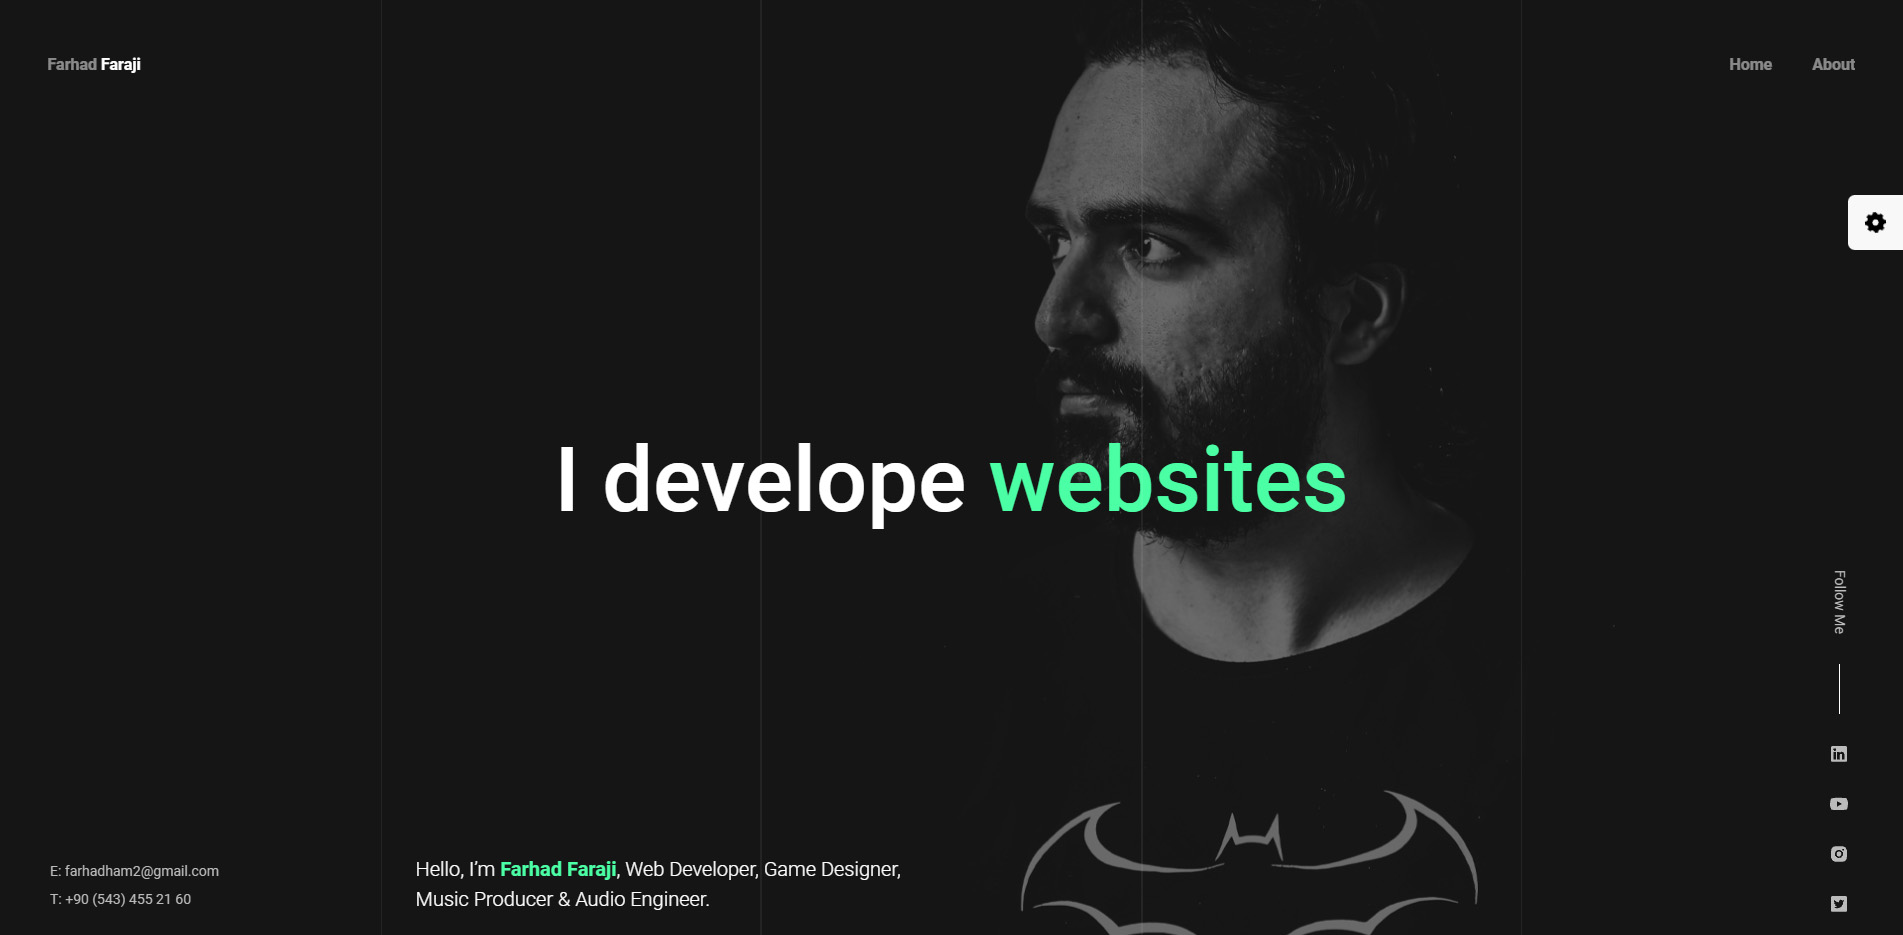
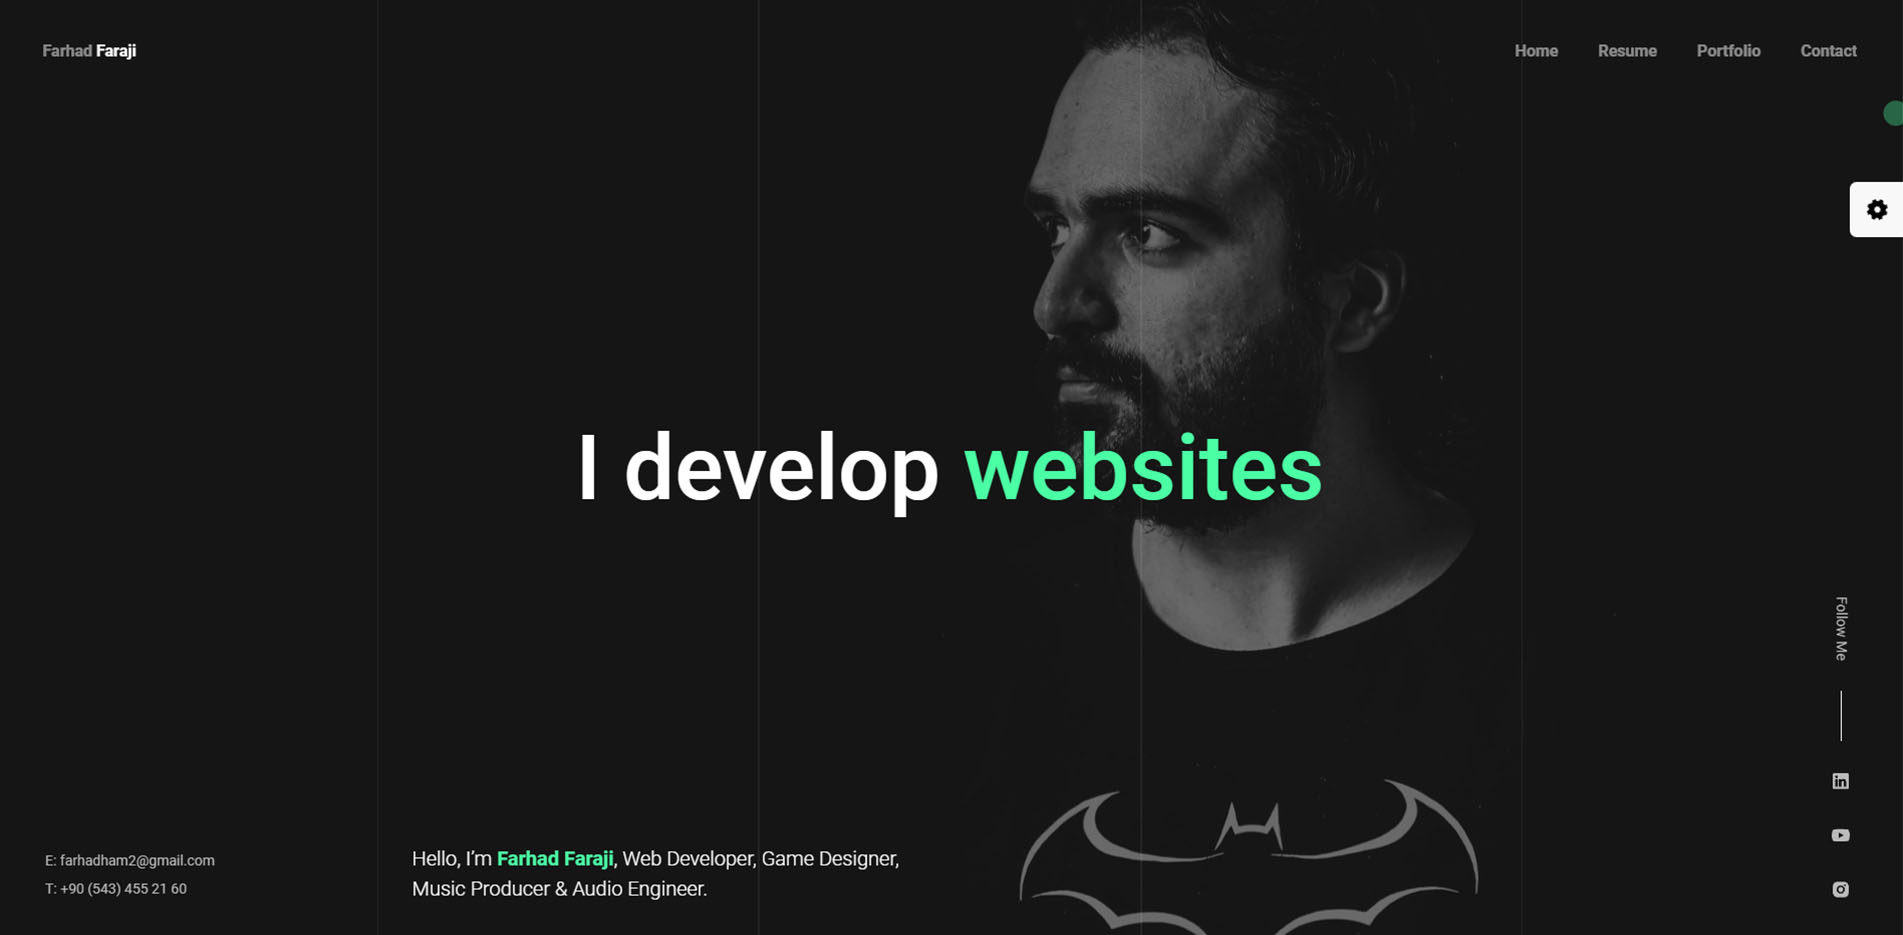
fixed some stuff

diff --git a/src/components/Header/Header.js b/src/components/Header/Header.js
@@ -87,7 +87,7 @@ const Header = ({ color, lines }) => {
                     duration: 1,
                   }}
                 >
-                  I produce <span style={{ color: color }}>music</span>
+                  I create <span style={{ color: color }}>music</span>
                 </motion.h2>
               )}
             </AnimatePresence>
@@ -105,27 +105,12 @@ const Header = ({ color, lines }) => {
                     duration: 1,
                   }}
                 >
-                  I develop <span style={{ color: color }}>games</span>
+                  I love <span style={{ color: color }}>games</span>
                 </motion.h2>
               )}
             </AnimatePresence>
           </div>
-          {/* <div className={styles.h2}>
-            <motion.h2
-              animate={{
-                y: [-100, 0, 0, 100],
-              }}
-              transition={{
-                duration: 2.5,
-                repeatType: "reverse",
-                repeat: Infinity,
-                repeatDelay: 5,
-                delay: 5,
-              }}
-            >
-              I develope <span style={{ color: color }}>games</span>
-            </motion.h2>
-          </div> */}
+
           <h1>
             Hello, I’m <strong style={{ color: color }}>Farhad Faraji</strong>,
             Web Developer, Game Designer,

diff --git a/src/components/About/About.js b/src/components/About/About.js
@@ -19,9 +19,10 @@ const About = ({ color, lines }) => {
               <div className={styles.text}>
                 <p className={styles.aboutText}>
                   Hello! I'm Farhad Faraji. Web designer, Music Composer and
-                  Audio Engineer. I have rich experience in Music Production ;
-                  also, I just fell in love with programming and the Frontend
-                  The development will be my first milestone in this journey
+                  Audio Engineer. I have rich experience in Music Production;
+                  also, I have a passion for programming and while I am already
+                  skilled at Frontend development, I am always looking to learn
+                  and improve.
                 </p>
                 <div className={styles.details}>
                   <p className={styles.p} style={{ color }}>
@@ -41,7 +42,9 @@ const About = ({ color, lines }) => {
                 </div>
               </div>
             </div>
-            <Button color={color} text={"Download CV"} />
+            <a href="https://farhadf.com/cv.pdf">
+              <Button color={color} text={"Download CV"} />
+            </a>
           </div>
         </div>
       </Container>

diff --git a/src/components/Experience/Experience.js b/src/components/Experience/Experience.js
@@ -43,8 +43,8 @@ const Experience = ({ color, lines }) => {
                     Bachelor's Degree - Civil Engineering
                   </p>
                   <p className={styles.desc}>
-                    I have graduated from one of the top 5 universities in my
-                    country with a score of 16 from 20.
+                    I have graduated with a degree in Civil Engineering from
+                    University of Tabriz, one of the top universities in Iran
                   </p>
                 </div>
                 <div className={styles.el}>

diff --git a/src/components/BackgroundImage/BackgroundImage.module.scss b/src/components/BackgroundImage/BackgroundImage.module.scss
@@ -2,7 +2,7 @@
   top: 0;
   height: 100vh;
   width: 100%;
-  background-image: url(../../../public/images/Header.jpg);
+  background-image: url(../../../public/images/Header.webp);
   background-position: center;
   background-size: cover;
   position: fixed;
